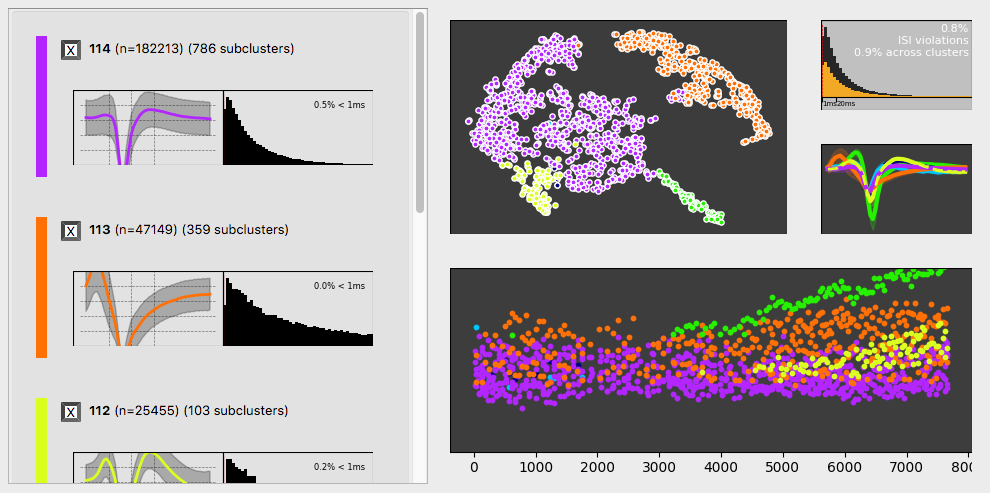
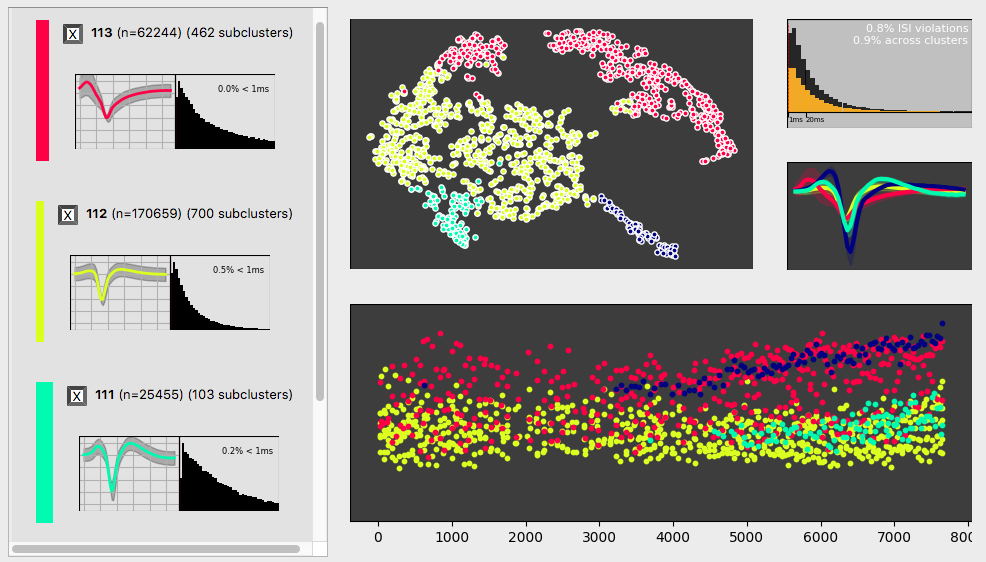
Fix ylims on waveform plots

diff --git a/suss/gui/cluster_select.py b/suss/gui/cluster_select.py
@@ -10,6 +10,7 @@ from PyQt5 import QtGui as gui
 from matplotlib.backends.backend_qt5agg import FigureCanvasQTAgg as FigureCanvas
 from matplotlib.collections import LineCollection
 from matplotlib.figure import Figure
+from matplotlib import ticker
 
 from suss.gui.utils import make_color_map, clear_axes, get_changed_labels
 
@@ -141,6 +142,8 @@ class ClusterSelector(widgets.QScrollArea):
         progress.open()
         self.pixmaps = {}
 
+        wf_ylims = (np.min(self.dataset.waveforms), np.max(self.dataset.waveforms))
+
         for _progress, label_idx in enumerate(ordered_idx):
             cluster_label = self.dataset.labels[label_idx]
             cluster = self.dataset.nodes[label_idx]
@@ -190,6 +193,7 @@ class ClusterSelector(widgets.QScrollArea):
                 plots_widget = ClusterInfo(
                         cluster,
                         self.colors[cluster_label],
+                        ylim=wf_ylims,
                         parent=self)
                 self._cached_cluster_info[cluster_label] = plots_widget
                 cluster_layout.addWidget(plots_widget, 1, 1)
@@ -207,16 +211,17 @@ class ClusterSelector(widgets.QScrollArea):
         self.frame.setLayout(self.layout)
         self.setWidget(self.frame)
         self.setWidgetResizable(True)
-        self.setFixedWidth(420)
+        self.setFixedWidth(350)
 
 
 class ClusterInfo(widgets.QWidget):
 
-    def __init__(self, cluster, color, size=(300, 75), parent=None):
+    def __init__(self, cluster, color, size=(200, 75), ylim=None, parent=None):
         super().__init__(parent)
         self.cluster = cluster
         self.color = color
         self.size = size
+        self.ylim = ylim
 
         self.setup_plots()
         self.setup_data()
@@ -237,7 +242,7 @@ class ClusterInfo(widgets.QWidget):
         self.ax_wf.patch.set_alpha(0.0)
         self.ax_isi = fig.add_axes([0.5, 0, 0.5, 1])
         self.ax_isi.patch.set_alpha(0.0)
-        clear_axes(self.ax_wf, self.ax_isi)
+        clear_axes(self.ax_isi)
 
     def setup_data(self):
         cluster = self.cluster.flatten()
@@ -255,26 +260,22 @@ class ClusterInfo(widgets.QWidget):
                 color=self.color,
                 alpha=1.0,
                 linewidth=2)[0]
-        self.ax_wf.set_ylim(-150, 100)
-        self.ax_wf.hlines(
-                [-100, -50, 0, 50],
-                *self.ax_wf.get_xlim(),
-                color="Black",
-                linestyle="--",
-                linewidth=0.5,
-                alpha=0.5)
-        self.ax_wf.vlines(
-                [10, 20, 30],
-                *self.ax_wf.get_ylim(),
-                color="Black",
-                linestyle="--",
-                linewidth=0.5,
-                alpha=0.5)
+
+        self.ax_wf.yaxis.set_major_locator(ticker.MultipleLocator(base=100))
+        self.ax_wf.xaxis.set_major_locator(ticker.MultipleLocator(base=10))
+        self.ax_wf.grid(True)
+
+        if self.ylim is None:
+            self.ylim = self.ax_wf.get_ylim()
+        else:
+            self.ax_wf.set_ylim(*self.ylim)
 
         isi = np.diff(cluster.times)
         isi_violations = np.sum(isi < 0.001) / len(isi)
-        hist, bin_edges = np.histogram(isi, bins=50, density=True, range=(0, 0.2))
-        self.ax_isi.bar((bin_edges[:-1] + bin_edges[1:]) / 2, hist, width=0.2 / 50, color="Black")
+        n_bins = 40
+        t_max = 0.2
+        hist, bin_edges = np.histogram(isi, bins=n_bins, density=True, range=(0, t_max))
+        self.ax_isi.bar((bin_edges[:-1] + bin_edges[1:]) / 2, hist, width=t_max / n_bins, color="Black")
         self.ax_isi.text(
                 self.ax_isi.get_xlim()[1] * 0.9,
                 self.ax_isi.get_ylim()[1] * 0.9,
@@ -288,7 +289,7 @@ class ClusterInfo(widgets.QWidget):
                 color="Red",
                 linestyle="--",
                 linewidth=0.2)
-        self.ax_isi.set_xlim(0, 0.2)
+        self.ax_isi.set_xlim(0, t_max)
 
         peaks = np.min(cluster.waveforms, axis=1)
         hist, bin_edges = np.histogram(peaks, bins=50, density=True, range=(-200, 0))

diff --git a/suss/gui/isi.py b/suss/gui/isi.py
@@ -117,7 +117,7 @@ class ISIPlot(widgets.QFrame):
                 isi[across_clusters],
                 isi[within_cluster]
             ],
-            bins=50,
+            bins=40,
             density=True,
             range=(0, 0.2),
             stacked=True,
@@ -137,7 +137,7 @@ class ISIPlot(widgets.QFrame):
                     len(isi[across_clusters])
             )
             self.isi_label.set_text(
-                    "{:.1f}%\nISI violations\n{:.1f}% across clusters".format(
+                    "{:.1f}% ISI violations\n{:.1f}% across clusters".format(
                     100.0 * isi_violations,
                     100.0 * isi_violations_across
                 )
